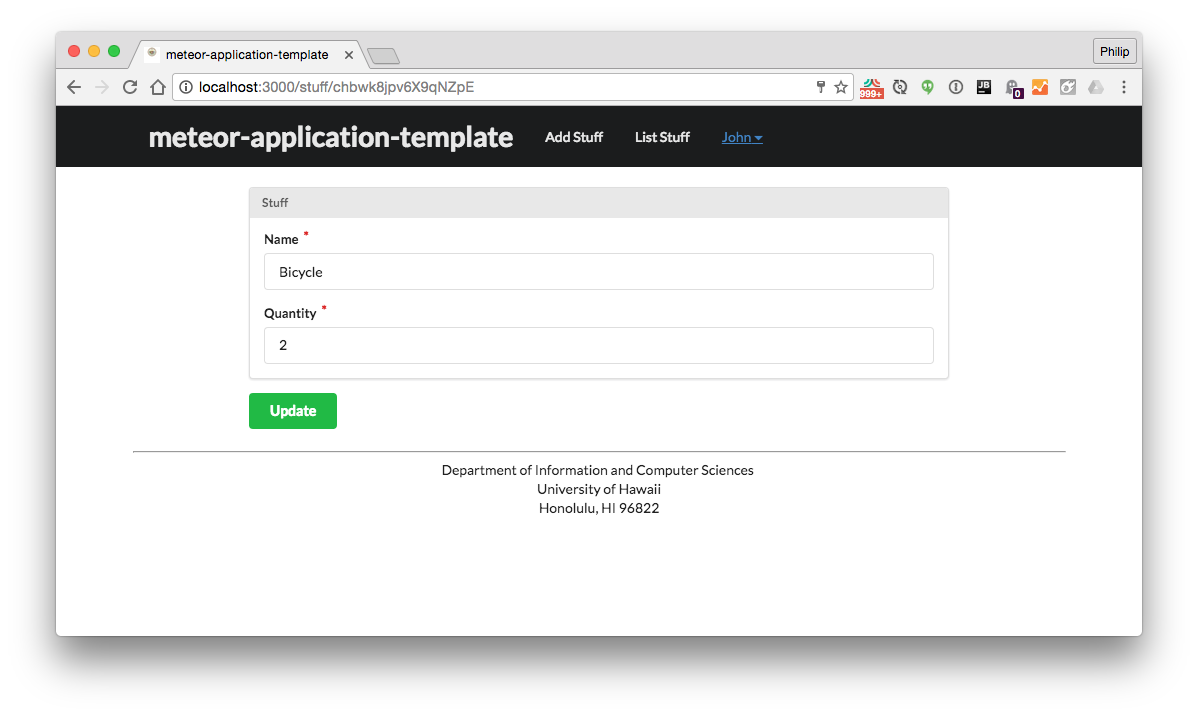
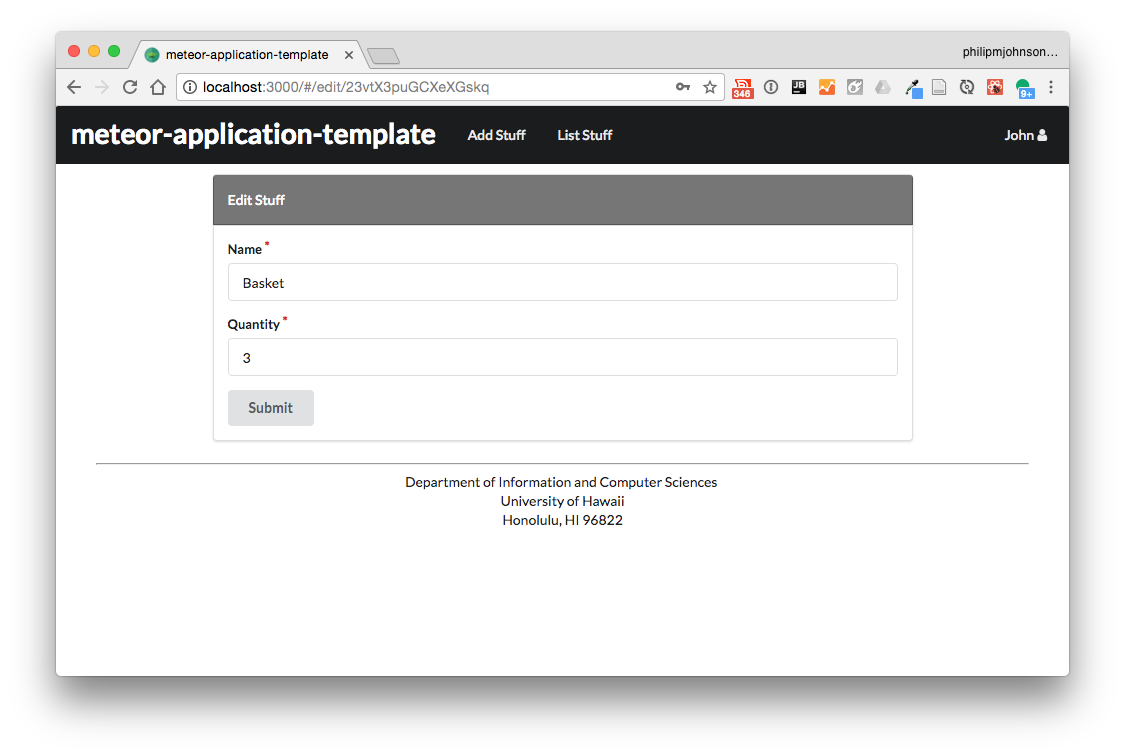
Update documentation.

diff --git a/index.md b/index.md
@@ -1,9 +1,9 @@
-![](https://raw.githubusercontent.com/ics-software-engineering/meteor-application-template/master/doc/home-page.png)
+![](https://raw.githubusercontent.com/ics-software-engineering/meteor-application-template-react/master/doc/landing-page.png)
 
-Meteor-application-template is a sample Meteor 1.5 application that is created to illustrate:
+Meteor-application-template-react is a sample Meteor 1.6 application that illustrates:
 
   * A standard directory layout using 'imports/' as recommended in the [Meteor Guide](https://guide.meteor.com/structure.html) 
-  * A standard set of Meteor packages and example usage (FlowRouter, AutoForm, Accounts, and Semantic UI)
+  * A basic set of Meteor packages and example usage (Accounts, React, Semantic UI)
   * Simple authorization/authentication and use of settings files for initialization.
   * Simple quality assurance using [ESLint](http://eslint.org) with packages to partially enforce the [Meteor Coding Standards](https://guide.meteor.com/code-style.html) and the [AirBnB Javascript Style Guide](https://github.com/airbnb/javascript).
 
@@ -12,7 +12,7 @@ The goal of this template is to help you get quickly started doing Meteor develo
 To keep this codebase simple and small, some important capabilities are intentionally excluded from this template:
 
   * Testing. 
-  * Security (meteor-application-template enables both autopublish and insecure packages)
+  * Security (meteor-application-template-react enables the insecure packages)
 
 Examples of the these capabilities will be provided elsewhere.
 
@@ -22,7 +22,7 @@ First, [install Meteor](https://www.meteor.com/install).
 
 Second, [create a new GitHub repository](https://help.github.com/articles/create-a-repo/), and clone it into your local workspace.
 
-Third, [download a zip file containing a snapshot of meteor-application-template](https://github.com/ics-software-engineering/meteor-application-template/archive/master.zip).
+Third, [download a zip file containing a snapshot of meteor-application-template-react](https://github.com/ics-software-engineering/meteor-application-template-react/archive/master.zip).
 
 Fourth, uncompress the zip file, and copy the following files and directories into your repo:
 
@@ -39,7 +39,7 @@ Now your local repo should contain the template. To test that everything is OK, 
 $ meteor npm install
 ```
 
-Once the libraries are installed, you can run the application by invoking the ["start" script in the package.json file](https://github.com/ics-software-engineering/meteor-application-template/blob/master/app/package.json#L5):
+Once the libraries are installed, you can run the application by invoking the ["start" script in the package.json file](https://github.com/ics-software-engineering/meteor-application-template-react/blob/master/app/package.json):
 
 ```
 $ meteor npm run start
@@ -59,9 +59,9 @@ In order to use the native implementation instead, run
 in the root directory of your application.
 ```
 
-On some operating systems (particularly Windows), installing bcrypt is much more difficult than implied by the above message. Bcrypt is only used in Meteor for password checking, so the performance implications are negligible until your site has very high traffic. You can safely ignore this warning without any problems.
+On some operating systems (particularly Windows), installing bcrypt is much more difficult than implied by the above message. Bcrypt is only used in Meteor for password checking, so the performance implications are negligible until your site has very high traffic. You can safely ignore this warning without any problems during initial stages of development.
 
-If all goes well, the template application will appear at [http://localhost:3000](http://localhost:3000).  You can login using the credentials in [settings.development.json](https://github.com/ics-software-engineering/meteor-application-template/blob/master/config/settings.development.json), or else register a new account.
+If all goes well, the template application will appear at [http://localhost:3000](http://localhost:3000).  You can login using the credentials in [settings.development.json](https://github.com/ics-software-engineering/meteor-application-template-react/blob/master/config/settings.development.json), or else register a new account.
 
 Lastly, you can run ESLint over the code in the imports/ directory with:
 
@@ -90,107 +90,41 @@ The app/ directory has this structure:
 
 ```
 client/
-  lib/           # holds Semantic-UI files.
-  head.html      # the <head>
-  main.js        # import all the client-side html and js files. 
+  main.html      # The boilerplate HTML with a "root" div to be manipulated by React.
+  main.js        # import startup files.
 
 imports/
-  api/           # Define collection processing code (client + server side)
+  api/           # Define collections
   startup/       # Define code to run when system starts up (client-only, server-only, both)
     both/          
     client/        
     server/        
   ui/
-    layouts/     # Layouts contain common elements to all pages (i.e. menubar and footer)
-    pages/       # Pages are navigated to by FlowRouter routes.
-    stylesheets/ # CSS customizations, if any.
+    layouts/     # Contains top-level layout (<App> component).
+    pages/       # Contains components for each page. 
+    components/  # Contains page elements, some of which could appear on multiple pages. 
 
 node_modules/    # managed by Meteor
 
 public/          # static assets (like images) can go here.
   
 server/
-   main.js       # import all the server-side js files.
+   main.js       # import the server-side js files.
 ```
 
 ### Import conventions
 
 This system adheres to the Meteor 1.4 guideline of putting all application code in the imports/ directory, and using client/main.js and server/main.js to import the code appropriate for the client and server in an appropriate order.
 
-This system accomplishes client and server-side importing in a different manner than most Meteor sample applications. In this system, every imports/ subdirectory containing any Javascript or HTML files has a top-level main.js file that is responsible for importing all files in its associated directory.   
-
-Then, client/main.js and server/main.js are responsible for importing all the directories containing code they need. For example, here is the contents of client/main.js:
-
-```
-import '/imports/startup/client';
-import '/imports/startup/both';
-import '/imports/api/stuff';
-import '/imports/ui/layouts';
-import '/imports/ui/pages';
-import '/imports/ui/stylesheets/style.css';
-```
-
-Apart from the last line that imports style.css directly, the other lines all invoke the main.js file in the specified directory.
-
-We use this approach to make it more simple to understand what code is loaded and in what order, and to simplify debugging when some code or templates do not appear to be loaded.  In our approach, there are only two places to look for top-level imports: the main.js files in client/ and server/, and the main.js files in import subdirectories. 
-
-Note that this two-level import structure ensures that all code and templates are loaded, but does not ensure that the symbols needed in a given file are accessible.  So, for example, a symbol bound to a collection still needs to be imported into any file that references it. For example, a server startup file needs to reference the symbol "Stuff" in order to initialize the collection, so it must import the symbol Stuff:
-
-```
-import { Stuff } from '../../api/stuff/stuff.js';
-import { _ } from 'meteor/underscore';
-
-/**
- * A list of Stuff to pre-fill the Collection.
- * @type {*[]}
- */
-const stuffSeeds = [
-  { name: 'Basket', quantity: 3 },
-  { name: 'Bicycle', quantity: 2 },
-];
-
-/**
- * Initialize the Stuff collection if empty with seed data.
- */
-if (Stuff.find().count() === 0) {
-  _.each(stuffSeeds, function seedStuffs(stuff) {
-    Stuff.insert(stuff);
-  });
-}
-```
-
-This strategy is not ideal for all application scenarios, but for those just starting to get comfortable with importing in Javascript, it should reduce confusion and import-related bugs.
- 
-### Naming conventions
-
-This system adopts the following naming conventions:
-
-  * Files and directories are named in all lowercase, with words separated by hyphens. Example: accounts-config.js
-  * "Global" Javascript variables (such as collections) are capitalized. Example: Stuff.
-  * Other Javascript variables are camel-case. Example: stuffSeeds.
-  * Templates representing pages are capitalized, with words separated by underscores. Example: Add_Stuff_Page.
-  * Routes to pages are named the same as their corresponding page. Example: Add_Stuff_Page.
-
-### Preinstalled packages
-
-In a nutshell, meteor-application-template includes support for:
-
-  * Forms (autoform, collection2, check, autoform-semantic-ui )
-  * Accounts (accounts-ui, accounts-password and useraccounts:semantic-ui)
-  * Routing (flow-router, flow-router-helpers, active-route)
-  * Presentation (semantic-ui, spin)
-  
-It does not provide security (both autopublish and insecure packages) remain enabled. This is intentional.
-
 ### Application functionality
 
-The application implements a simple CRUD application for managing "Stuff", which is a Mongo Collection consisting of a name (String) and a quantity (Number). There are four pages, each implemented by a template in the imports/ui/pages directory. 
+The application implements a simple CRUD application for managing "Stuff", which is a Mongo Collection consisting of a name (String) and a quantity (Number).
 
-#### Home page
+#### Landing page
 
-Implemented by the Home_Page template. 
+Implemented by the Landing component. 
 
-![](https://raw.githubusercontent.com/ics-software-engineering/meteor-application-template/master/doc/home-page.png)
+![](https://raw.githubusercontent.com/ics-software-engineering/meteor-application-template-react/master/doc/landing-page.png)
 
 You must login to access any page other than the Home page. 
 
@@ -198,60 +132,46 @@ You must login to access any page other than the Home page.
 
 You must login to see the contents of the Stuff collection.
 
-![](https://raw.githubusercontent.com/ics-software-engineering/meteor-application-template/master/doc/list-page.png)
+![](https://raw.githubusercontent.com/ics-software-engineering/meteor-application-template-react/master/doc/list-page.png)
 
 #### Add Stuff page
 
 You must login to add new documents to the Stuff collection.
 
-![](https://raw.githubusercontent.com/ics-software-engineering/meteor-application-template/master/doc/add-page.png)
+![](https://raw.githubusercontent.com/ics-software-engineering/meteor-application-template-react/master/doc/add-page.png)
 
 #### Edit Stuff page
 
 You must login to add edit documents in the Stuff collection.
 
-![](https://raw.githubusercontent.com/ics-software-engineering/meteor-application-template/master/doc/edit-page.png)
+![](https://raw.githubusercontent.com/ics-software-engineering/meteor-application-template-react/master/doc/edit-page.png)
 
 
 ### Collections
 
 The application implements a single Collection called "Stuff". Each Stuff document has two fields: a String "name" and a Number "quantity".
 
-The Stuff collection is defined in [imports/api/stuff/stuff.js](https://github.com/ics-software-engineering/meteor-application-template/blob/master/app/imports/api/stuff/stuff.js).
+The Stuff collection is defined in [imports/api/stuff/stuff.js](https://github.com/ics-software-engineering/meteor-application-template-react/blob/master/app/imports/api/stuff/stuff.js).
 
-The Stuff collection is initialized in [imports/startup/server/stuff.js](https://github.com/ics-software-engineering/meteor-application-template/blob/master/app/imports/startup/server/stuff.js).
-
-Note that this system uses autopublish to avoid the need to define publications and subscriptions.  That said, any templates presenting collection data must use `Template.subscriptionsReady` to ensure that subscription data is available before template rendering. See [imports/ui/pages/list-stuff-page.html](https://github.com/ics-software-engineering/meteor-application-template/blob/master/app/imports/ui/pages/list-stuff-page.html) for an example.
+The Stuff collection is initialized in [imports/startup/server/stuff.js](https://github.com/ics-software-engineering/meteor-application-template-react/blob/master/app/imports/startup/server/stuff.js).
 
 ### CSS
 
-The application uses [Semantic UI](http://semantic-ui.com/), and installs one Meteor packages: `fabienb4:autoform-semantic-ui`.
+The application uses the [React implementation of Semantic UI](http://react.semantic-ui.com/).
 
-The Semantic UI theme files are located in [app/client/lib/semantic-ui](https://github.com/ics-software-engineering/meteor-application-template/tree/master/app/client/lib/semantic-ui) directory.
-
-Because the application implements a menu fixed to the top of the screen, the [app/imports/ui/stylesheets/style.css](https://github.com/ics-software-engineering/meteor-application-template/blob/master/app/imports/ui/stylesheets/style.css) file adds 61px of padding to the body. Other page templates add additional padding to improve the look. 
-
-To learn more about the Semantic UI theme, see [Semantic-UI-Meteor](https://github.com/Semantic-Org/Semantic-UI-Meteor).
 
 ### Routing
 
-For display and navigation among its four pages, the application uses [Flow Router](https://github.com/kadirahq/flow-router).
+For display and navigation among its four pages, the application uses [React Router](https://reacttraining.com/react-router/).
 
-Routing is defined in [imports/startup/client/router.js](https://github.com/ics-software-engineering/meteor-application-template/blob/master/app/imports/startup/client/router.js).
+Routing is defined in [imports/ui/layouts/App.jsx](https://github.com/ics-software-engineering/meteor-application-template-react/blob/master/app/imports/ui/layouts/App.jsx).
 
-### Forms
-
-To implement the Add Stuff and Edit Stuff pages, the application uses [AutoForm](https://github.com/aldeed/meteor-autoform).
-
-To present the forms, the application uses the quickform component.  See [imports/ui/pages/add-stuff-page.html](https://github.com/ics-software-engineering/meteor-application-template/blob/master/app/imports/ui/pages/add-stuff-page.html) and [imports/ui/pages/edit-stuff-page.html](https://github.com/ics-software-engineering/meteor-application-template/blob/master/app/imports/ui/pages/edit-stuff-page.html).
-
-See [meteor-example-form](https://ics-software-engineering.github.io/meteor-example-form/) for a more sophisticated approach.
 
 ### Authentication
 
-For authentication, the application uses the Meteor accounts-ui package, with some simple customization in [imports/startup/both/accounts-config.js](https://github.com/ics-software-engineering/meteor-application-template/blob/master/app/imports/startup/both/accounts-config.js).
+For authentication, the application uses the Meteor accounts package, with some simple customization in [imports/startup/server/accounts.js](https://github.com/ics-software-engineering/meteor-application-template-react/blob/master/app/imports/startup/server/accounts.js).
 
-When the application is run for the first time, a settings file (such as [config/settings.development.json](https://github.com/ics-software-engineering/meteor-application-template/blob/master/config/settings.development.json)) should be passed to Meteor. That will lead to a default account being created through the code in [imports/startup/server/accounts.js](https://github.com/ics-software-engineering/meteor-application-template/blob/master/app/imports/startup/server/accounts.js).
+When the application is run for the first time, a settings file (such as [config/settings.development.json](https://github.com/ics-software-engineering/meteor-application-template-react/blob/master/config/settings.development.json)) should be passed to Meteor. That will lead to a default account being created through the code in [imports/startup/server/accounts.js](https://github.com/ics-software-engineering/meteor-application-template-react/blob/master/app/imports/startup/server/accounts.js).
 
 The application allows users to register and create new accounts at any time.
 
@@ -259,26 +179,22 @@ The application allows users to register and create new accounts at any time.
 
 Only logged in users can manipulate Stuff documents (but any registered user can manipulate any Stuff document, even if they weren't the user that created it.)
 
-To prevent users who are not logged in from accessing pages that manipulate Stuff instances, template-based authorization is used following the recommendations in [Implementing Auth Logic and Permissions](https://kadira.io/academy/meteor-routing-guide/content/implementing-auth-logic-and-permissions). 
-
-The application implements template-based authorization using an If_Logged_In template, defined in [imports/ui/layouts/if-logged-in.html](https://github.com/ics-software-engineering/meteor-application-template/blob/master/app/imports/ui/layouts/if-logged-in.html) and [imports/ui/layouts/if-logged-in.js](https://github.com/ics-software-engineering/meteor-application-template/blob/master/app/imports/ui/layouts/if-logged-in.js).
-
 ### Configuration
 
-The [config](https://github.com/ics-software-engineering/meteor-application-template/tree/master/config) directory is intended to hold settings files.  The repository contains one file: [config/settings.development.json](https://github.com/ics-software-engineering/meteor-application-template/blob/master/config/settings.development.json).
+The [config](https://github.com/ics-software-engineering/meteor-application-template-react/tree/master/config) directory is intended to hold settings files.  The repository contains one file: [config/settings.development.json](https://github.com/ics-software-engineering/meteor-application-template-react/blob/master/config/settings.development.json).
 
-The [.gitignore](https://github.com/ics-software-engineering/meteor-application-template/blob/master/.gitignore) file prevents a file named settings.production.json from being committed to the repository. So, if you are deploying the application, you can put settings in a file named settings.production.json and it will not be committed.
+The [.gitignore](https://github.com/ics-software-engineering/meteor-application-template-react/blob/master/.gitignore) file prevents a file named settings.production.json from being committed to the repository. So, if you are deploying the application, you can put settings in a file named settings.production.json and it will not be committed.
 
 ### Quality Assurance
 
 #### ESLint
 
-The application includes a [.eslintrc](https://github.com/ics-software-engineering/meteor-application-template/blob/master/app/.eslintrc) file to define the coding style adhered to in this application. You can invoke ESLint from the command line as follows:
+The application includes a [.eslintrc](https://github.com/ics-software-engineering/meteor-application-template-react/blob/master/app/.eslintrc) file to define the coding style adhered to in this application. You can invoke ESLint from the command line as follows:
 
 ```
-[~/meteor-application-template/app]-> meteor npm run lint
+[~/meteor-application-template-react/app]-> meteor npm run lint
 
-> meteor-application-template@ lint /Users/philipjohnson/meteor-application-template/app
+> meteor-application-template-react@ lint /Users/philipjohnson/meteor-application-template-react/app
 > eslint --quiet ./imports
 ```
 
@@ -288,7 +204,7 @@ It's significantly easier to do development with ESLint integrated directly into
 
 ## Screencast
 
-Click the image below to watch a 27 minute walkthrough of this system. This screencast was generated for a previous version of meteor-application-template, so there may be small differences in the code base. 
+Click the image below to watch a walkthrough of this system. This screencast was generated for a previous version of meteor-application-template, so there may be small differences in the code base. 
 
-[<img src="https://raw.githubusercontent.com/ics-software-engineering/meteor-application-template/master/doc/meteor-application-template-youtube.png" width="600">](https://www.youtube.com/watch?v=kEJN3kjyugs)
+[<img src="https://raw.githubusercontent.com/ics-software-engineering/meteor-application-template-react/master/doc/meteor-application-template-youtube.png" width="600">](https://www.youtube.com/watch?v=kEJN3kjyugs)
 
